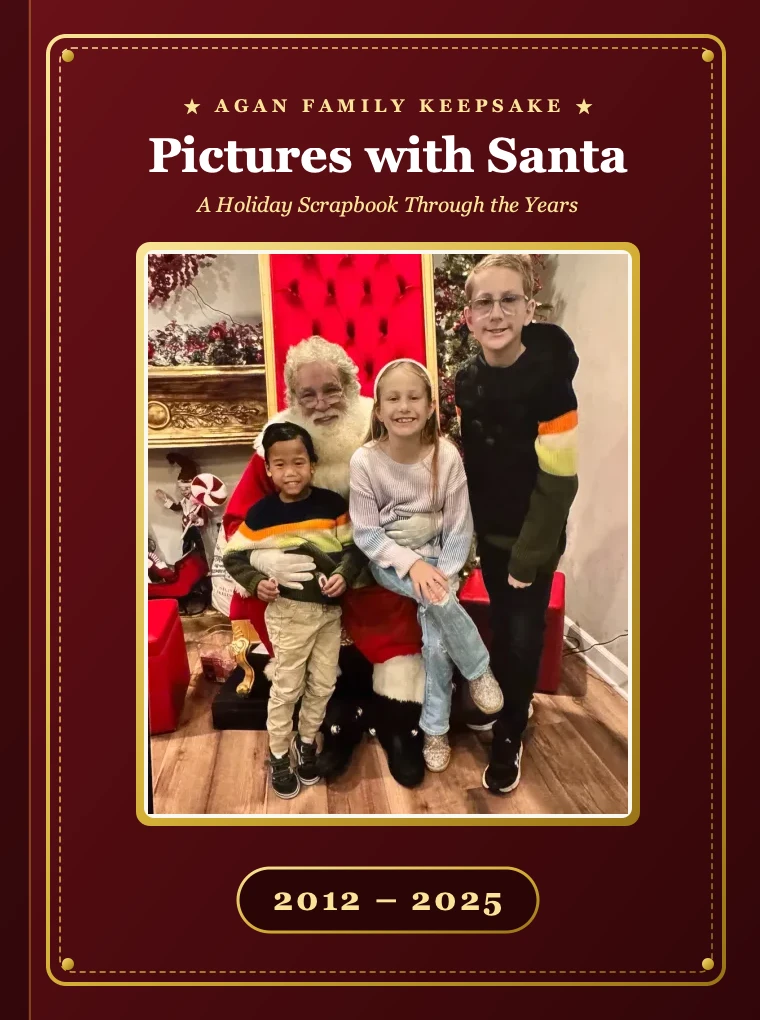
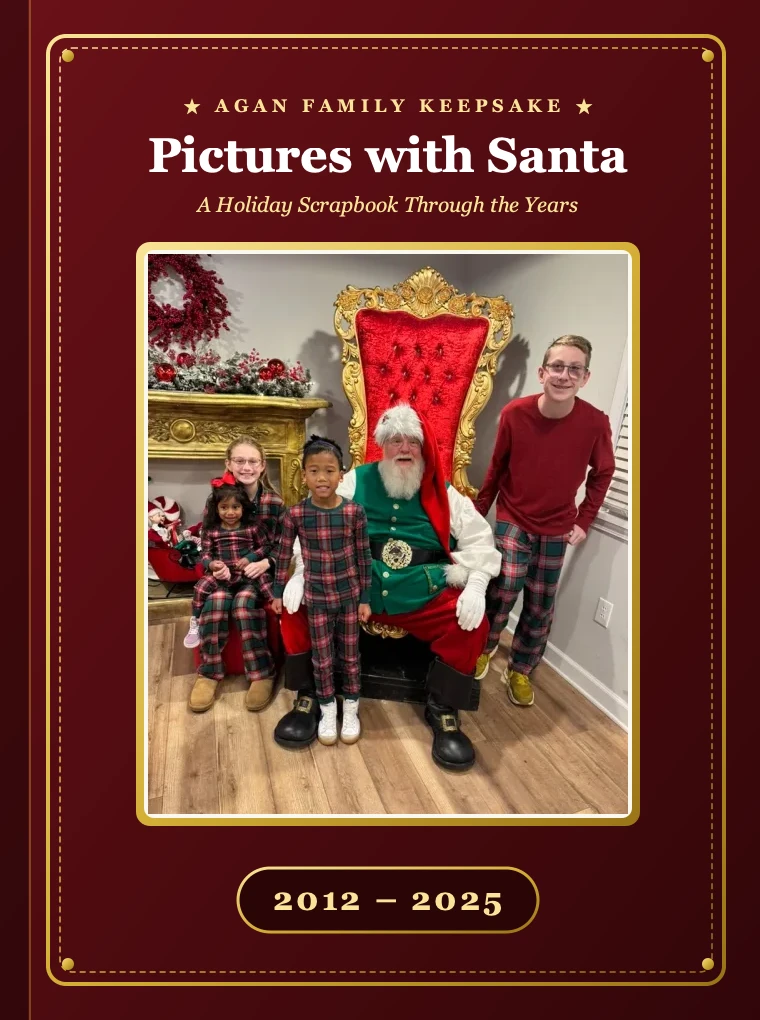
feat(santa): update Santa Scrapbook cover to feature 2025 photo

diff --git a/src/App.jsx b/src/App.jsx
@@ -30,7 +30,7 @@ const INITIAL_BOOKS = [
     title: 'Pictures with Santa (2012–2025)',
     author: 'Agan Family Scrapbook',
     category: 'album',
-    cover: '/covers/santa-scrapbook-cover.webp?v=1',
+    cover: '/covers/santa-scrapbook-cover.webp?v=2',
     notes: '13 years of family Santa photos in chronological order (2012–2025) with festive borders, years, handwritten notes & bonus holiday snapshots! 🎅✨',
     pages: SANTA_SCRAPBOOK_PAGES.map((p, idx) => ({
       id: `santa_page_${p.year}`,
